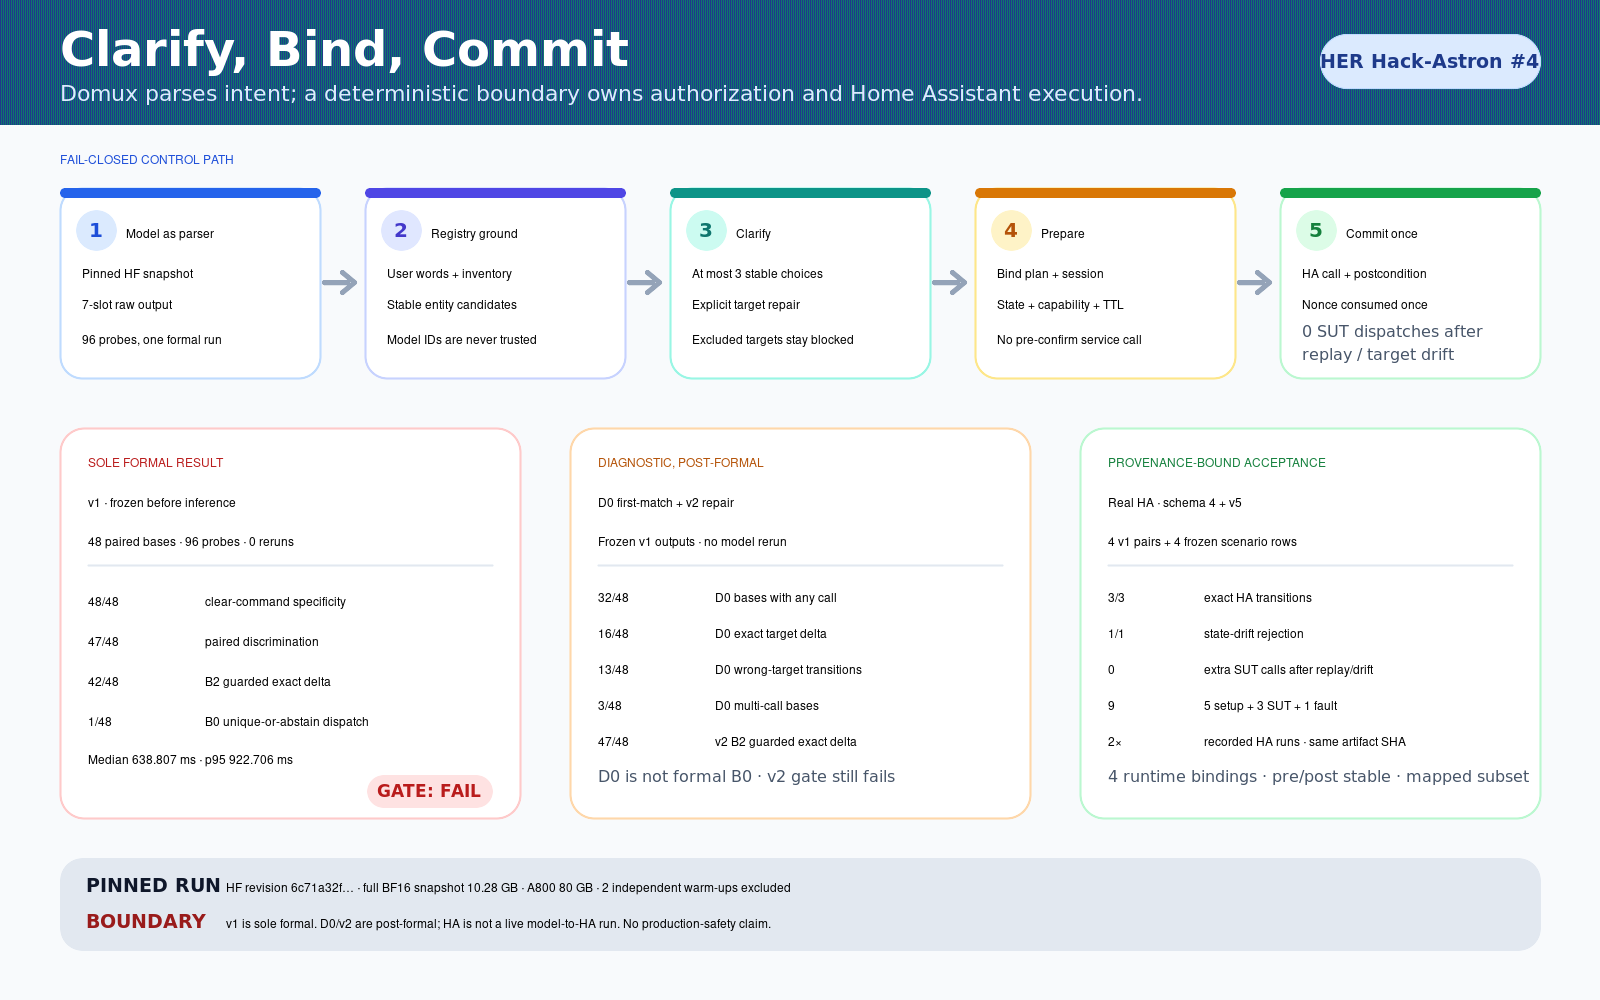
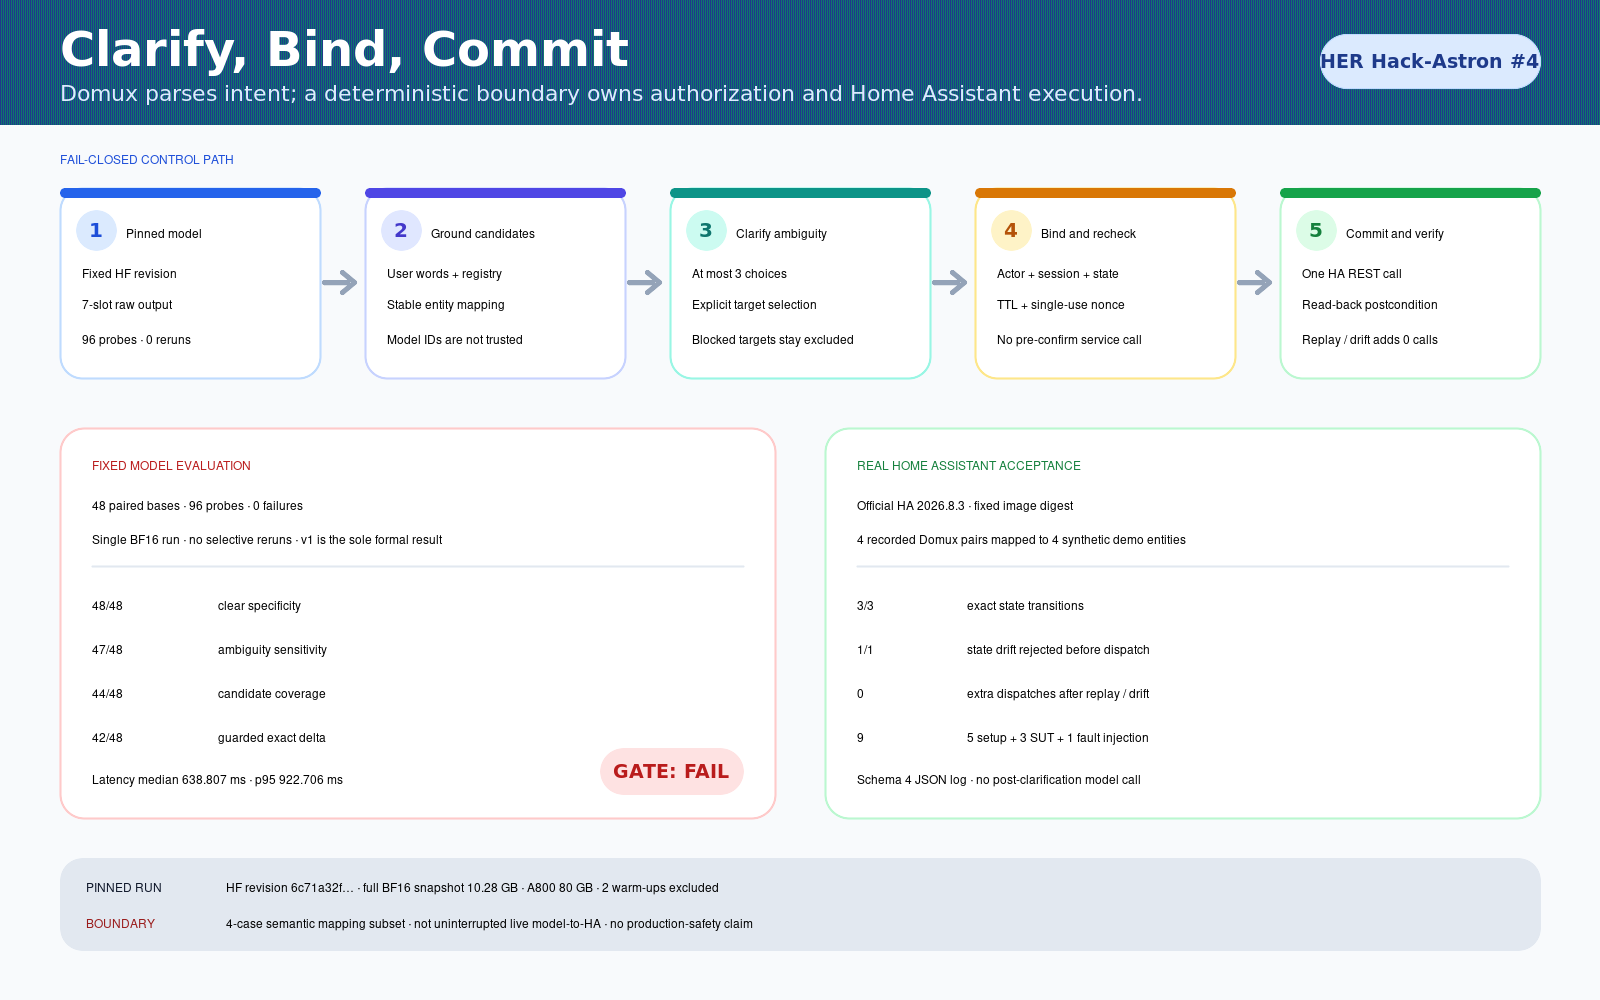
docs: 补充 Domux 案例说明与最终预览

diff --git a/cases/domux-clarify-commit/README.md b/cases/domux-clarify-commit/README.md
@@ -1,0 +1,208 @@
+---
+title: Domux 有歧义指令先澄清、再绑定、后提交
+author: MittaPei
+date: 2026-08-27
+category: smart-home-command
+testedRevision: 6c71a32f4d624cadfd9fce9d10240d8068e53456
+runtime: transformers-5.15.0
+hardware: NVIDIA A800-SXM4-80GB on Linux 5.15
+downloadSource: huggingface
+channels:
+  - https://huggingface.co/iFlytekOpenSource/Domux/discussions/5
+---
+
+# Clarify, Bind, Commit：有歧义的 Domux 指令先确认，再执行
+
+> 在 48 组清晰／歧义配对指令上，Domux 的 clear specificity 为 48/48，
+> ambiguity sensitivity 为 47/48；原始 v1 clarify-and-commit 质量门为
+> **FAIL（42/48）**。最终参考实现没有覆盖这个失败结论，而是把 4 条已记录的
+> Domux 输出接入真实 Home Assistant：3/3 精确状态变更，1/1 状态漂移在调用前拒绝。
+
+![Domux 消歧确认后提交的评测与 Home Assistant 验收证据](preview.png)
+
+## 真实任务 / Task
+
+“关掉那盏灯”“把卧室空调调到 22 度”可能对应多个同名设备。若集成层默认选择
+列表第一项，模型的不确定性会变成真实设备误操作。
+
+本案例实现一条窄而完整的边界：解析 Domux 七槽位输出 → 查找候选 → 有歧义时
+展示最多 3 个选项 → 将确认绑定到用户、会话、候选、状态、TTL 和一次性 nonce →
+提交前重新校验 → 调用 Home Assistant → 回读并核对精确后置状态。
+
+## Hugging Face 下载证据 / Hugging Face download
+
+- Model: `iFlytekOpenSource/Domux`
+- Revision: `6c71a32f4d624cadfd9fce9d10240d8068e53456`
+- Full BF16 snapshot: 13 files，`10,279,032,574` bytes
+- Snapshot manifest file SHA-256:
[1 lines of base64/hex data omitted]
+- Canonical 13-file entry digest:
[1 lines of base64/hex data omitted]
+
+为避免继承 shell 中的自定义 HF endpoint：
+
+```bash
+env -u HF_ENDPOINT -u HUGGINGFACE_HUB_BASE_URL \
+  hf download iFlytekOpenSource/Domux \
+  --revision 6c71a32f4d624cadfd9fce9d10240d8068e53456 \
+  --local-dir ./domux-6c71a32
+```
+
+`run_model.py` 在加载前核验 revision、文件大小、hash 和 Hub 元数据；仓库不包含权重。
+
+## 环境 / Setup
+
+- Python 3.12.12；`transformers.AutoModelForMultimodalLM`
+- transformers 5.15.0；torch 2.10.0+cu128；huggingface_hub 1.27.0；
+  accelerate 1.13.0
+- 单卡 NVIDIA A800-SXM4-80GB；BF16
+- greedy；`temperature=0`；`max_new_tokens=128`；seed `20260826`
+- 2 条独立 warm-up，不计入开发或评测数据
+- 48 base × clear/ambiguous = 96 probes；0 failure；0 selective rerun
+- model load 4.564 s；peak allocated 10,244,988,416 bytes
+- Home Assistant 官方镜像 `2026.8.3`，固定 digest，loopback 随机端口，
+  1.5 CPU / 2 GiB / 512 PIDs / `restart=no`
+
+## 实际过程 / What happened
+
+同一 base 的实际输入和原始输出：
+
+```text
+Turn off the Light in the Living Room on the Ground Floor.
+turnOff|Light|*|*|*|Living Room|Ground Floor
+
+Turn off the light.
+turnOff|Light|*|*|*|*|*
+```
+
+另两条代表记录：
+
+```text
+Set the hall curtain to 20 percent.
+set|Curtain|position|20|Percent|Hall|*
+
+Set the bedroom AC to 22 degrees.
+set|AC|temperature|22|Celsius|Bedroom|*
+```
+
+全部 96 条输入、raw output、token 数、延迟和 hash 保存在
+[`evidence/v1/domux_raw.jsonl`](evidence/v1/domux_raw.jsonl)，没有删样本或选择性重跑。
+
+真实 HA 日志绑定了 4 组固定模型输入／输出、4 条冻结场景和执行时的 policy/runner
+hash。精简摘录：
+
+```json
+{
+  "schema_version": 4,
+  "status": "passed",
+  "successful_transitions": 3,
+  "rejected_before_dispatch": 1,
+  "sut_dispatches": 3,
+  "service_calls": "5 setup + 3 SUT + 1 fault injection = 9",
[1 lines of base64/hex data omitted]
+}
+```
+
+三条成功路径覆盖灯、窗帘位置与空调温度；每条只产生一次 SUT 调用，nonce 重放
+新增调用为 0。第四条在 prepare 后通过 HA REST 注入真实状态漂移，提交返回
+`state_changed / INVALIDATED`，在 dispatch 前拒绝。
+
+## 结果 / Results
+
+统计单元是 48 个配对 base，不把 96 条 probe 当成独立样本。二元比例使用 Wilson
+双侧 95% 区间；预注册比较使用 exact McNemar + Holm 校正；延迟先在 base 内配对，
+再汇总 48 个 base。
+
+| 指标 | 结果 | 方法 |
+|---|---:|---|
+| Clear specificity | 48/48 | fixed v1 paired suite |
+| Ambiguity sensitivity / paired discrimination | 47/48 | fixed v1 paired suite |
+| Candidate coverage | 44/48 | intended entity in bounded candidates |
+| Guarded B2 exact delta | 42/48 | original v1; gate **FAIL** |
+| Safe-abstain baseline | 47/48 | dispatch 1/48；wrong target 0/48 |
+| Pair latency | median 638.807 ms；p95 922.7055 ms | 48 within-base medians |
+| Real HA commits | 3/3 | exact before/after state + postcondition |
+| Real HA drift rejection | 1/1 | out-of-band change；0 SUT dispatch |
+
+v1 要求所有 eligible B2 clean/guard trial 通过，因此 42/48 必须写 FAIL。当前顶层
+`clarify_commit.py` 是查看失败后的最终参考实现，不用于改写原始 v1 数字。
+
+## 失败语义 / Failure cases
+
+| 场景 | 结果 | 设备调用 |
+|---|---|---:|
+| malformed `turnOn\|Light` | `ParseError` before prepare | 0 |
+| expired confirmation | `expired` | 0 |
+| reused nonce | `replayed_nonce` | 0 additional |
+| bound state changed | `state_changed / INVALIDATED` | 0 |
+| postcondition mismatch | `FAILED_POSTCONDITION`; nonce consumed | 1 already occurred |
+
+最后一项不能假装“未执行”：调用已经发生而状态不可确认时，系统保留失败事实并禁止
+相同 nonce 重试。
+
+## 复现 / Reproduction
+
+核心代码测试不需要 GPU 或 Home Assistant：
+
+```bash
+cd cases/domux-clarify-commit
+python -m unittest discover -s tests -q
+```
+
+预期：`Ran 159 tests`，`OK`。
+
+有 Docker 时可重跑真实 HA（仅创建带任务标签的容器/volume，结束时清理）：
+
+```bash
+python ha_acceptance.py --output /tmp/domux-ha-acceptance.json
+```
+
+完整模型重跑：
+
+```bash
+CUDA_VISIBLE_DEVICES=0 python run_model.py \
+  --snapshot ./domux-6c71a32 \
+  --dataset data/scenarios.jsonl \
+  --output /tmp/domux-raw.jsonl \
+  --metadata-output /tmp/domux-metadata.json \
+  --mode formal --split eval --precision bf16
+
+python evaluate.py \
+  --from-frozen-evidence /tmp/domux-raw.jsonl \
+  --evidence-metadata /tmp/domux-metadata.json \
+  --output-dir /tmp/domux-eval
+```
+
+评测质量门不通过时 evaluator 以 exit code 1 结束，同时仍完整写出 report/trials；
+这是结果，不是基础设施故障。
+
+## 价值 / Why it mattered
+
+- 模型 raw output 与设备执行分开计数；
+- 有歧义先澄清，确认前 0 device call；
+- 确认绑定具体状态和一次性 nonce，漂移与重放在执行前失效；
+- 调用后回读精确状态，不把 HTTP 200 等同于任务成功；
+- 不覆盖失败指标，也不把 4 条 HA 子集包装成生产结论。
+
+## 公开的 Hugging Face Discussion / Published Hugging Face Discussion
+
+- https://huggingface.co/iFlytekOpenSource/Domux/discussions/5
+
+## 安全、隐私与许可 / Safety, privacy, and licensing
+
+- 64 个原创合成 base，只含 Light、Curtain、AC；排除门锁、燃气、报警、摄像头、
+  医疗设备和真实硬件。
+- 无 token、cookie、私有 endpoint、个人缓存路径、真实家庭或业务数据。
+- 合成数据/data card 以 CC BY 4.0 提供；案例代码沿用仓库 Apache-2.0；模型、
+  Gemma、Home Assistant 与 runtime 仍按各自上游许可。
+- 没有模型权重；只提交脚本、输入、原始文本输出、元数据和已脱敏日志。
+
+## 踩坑记录 / Notes and gotchas
+
+1. 96 probes 只有 48 个独立 base，不能扩大统计分母。
+2. setup、fault injection 和 SUT dispatch 必须分账。
+3. HTTP 200 后仍要回读并核对目标状态。
+4. HA 测试使用 4 个语义映射实体，不是完整场景 inventory。
+5. 澄清答案来自冻结的合成 scenario gold，确认后没有再次调用模型；因此这不是
+   不间断 live model-to-HA，也不认证 production safety。
+6. `preview.png` 是结果信息图；真实运行证据是 raw JSONL 和 HA JSON 日志。
